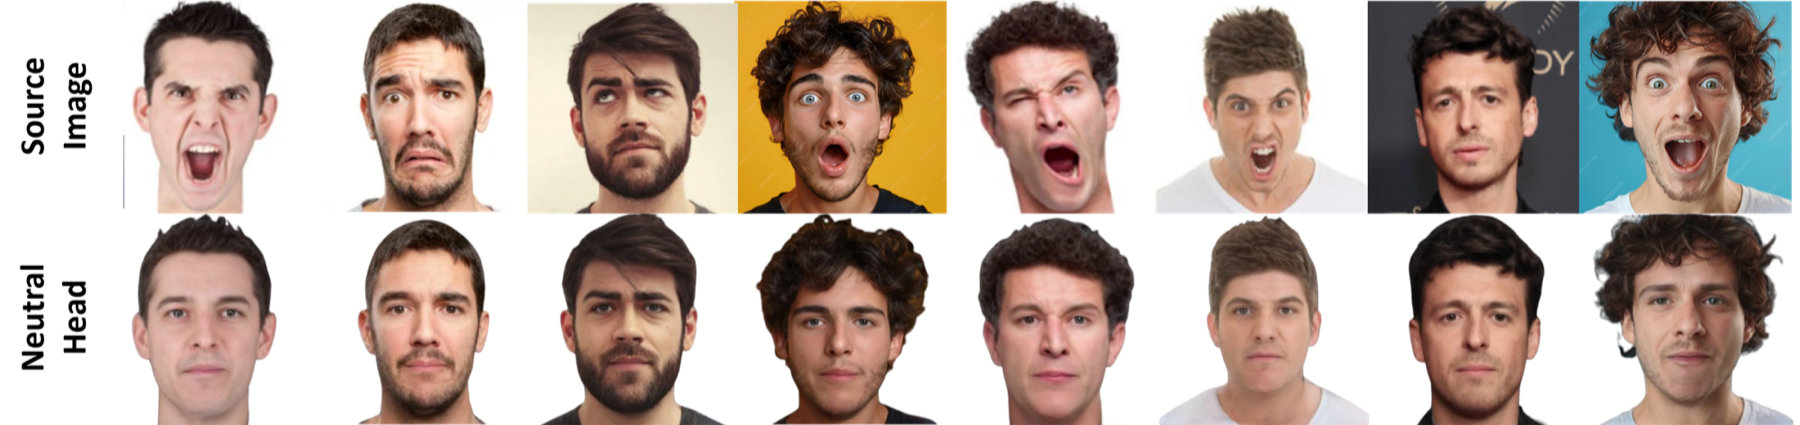
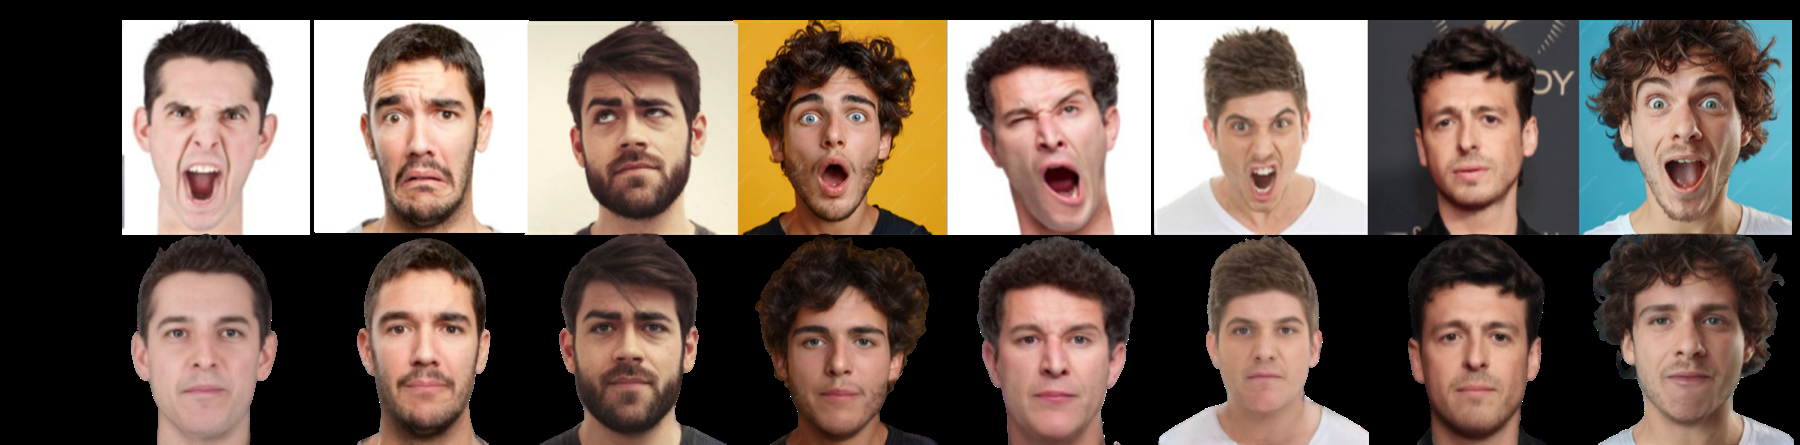
Fix expression removal slider and crops

diff --git a/assets/main.js b/assets/main.js
@@ -131,6 +131,11 @@ const pageConfig = {
   },
 };
 
+const expressionRemovalSliderState = {
+  count: 0,
+  index: 0,
+};
+
 function setText(id, value) {
   const node = document.getElementById(id);
   if (!node) return;
@@ -355,20 +360,92 @@ function renderBaseline() {
   }
 }
 
-function createCarouselItem(itemConfig) {
-  const item = document.createElement("div");
-  item.className = "item item-video3";
-  item.append(createMedia(itemConfig));
-  return item;
+function createExpressionRemovalSlide(itemConfig) {
+  const slide = document.createElement("div");
+  slide.className = "expression-removal-slide";
+  slide.append(createMedia(itemConfig));
+  return slide;
+}
+
+function setExpressionRemovalIndex(index) {
+  const track = document.getElementById("expression-removal-track");
+  const dots = document.querySelectorAll(".expression-removal-dot");
+  if (!track || expressionRemovalSliderState.count === 0) return;
+
+  const nextIndex =
+    ((index % expressionRemovalSliderState.count) + expressionRemovalSliderState.count) %
+    expressionRemovalSliderState.count;
+
+  expressionRemovalSliderState.index = nextIndex;
+  track.style.transform = `translateX(-${nextIndex * 100}%)`;
+
+  dots.forEach((dot, dotIndex) => {
+    dot.classList.toggle("is-active", dotIndex === nextIndex);
+    dot.setAttribute("aria-current", dotIndex === nextIndex ? "true" : "false");
+  });
+}
+
+function bindExpressionRemovalSlider() {
+  const root = document.getElementById("expression-removal-slider");
+  const prev = document.getElementById("expression-removal-prev");
+  const next = document.getElementById("expression-removal-next");
+  const dots = document.getElementById("expression-removal-dots");
+
+  if (!root || !prev || !next || !dots || root.dataset.bound === "true") return;
+
+  prev.addEventListener("click", () => {
+    setExpressionRemovalIndex(expressionRemovalSliderState.index - 1);
+  });
+
+  next.addEventListener("click", () => {
+    setExpressionRemovalIndex(expressionRemovalSliderState.index + 1);
+  });
+
+  dots.addEventListener("click", (event) => {
+    const target = event.target;
+    if (!(target instanceof HTMLButtonElement)) return;
+    const { index } = target.dataset;
+    if (!index) return;
+    setExpressionRemovalIndex(Number(index));
+  });
+
+  root.dataset.bound = "true";
 }
 
 function renderExpressionRemoval() {
   setText("expression-removal-caption", pageConfig.expressionRemoval.caption);
-  const container = document.getElementById("expression-removal-carousel");
-  if (!container) return;
+  const root = document.getElementById("expression-removal-slider");
+  const track = document.getElementById("expression-removal-track");
+  const dots = document.getElementById("expression-removal-dots");
+  const prev = document.getElementById("expression-removal-prev");
+  const next = document.getElementById("expression-removal-next");
+  if (!root || !track || !dots || !prev || !next) return;
+
   const items = pageConfig.expressionRemoval.slides || [];
-  container.replaceChildren(...items.map(createCarouselItem));
-  container.classList.toggle("is-hidden", items.length === 0);
+  track.replaceChildren(...items.map(createExpressionRemovalSlide));
+
+  dots.replaceChildren(
+    ...items.map((_, index) => {
+      const dot = document.createElement("button");
+      dot.className = "expression-removal-dot";
+      dot.type = "button";
+      dot.dataset.index = String(index);
+      dot.setAttribute("aria-label", `Go to expression removal slide ${index + 1}`);
+      dot.setAttribute("aria-current", "false");
+      return dot;
+    }),
+  );
+
+  expressionRemovalSliderState.count = items.length;
+  expressionRemovalSliderState.index = 0;
+
+  root.classList.toggle("is-hidden", items.length === 0);
+  dots.classList.toggle("is-hidden", items.length <= 1);
+  prev.disabled = items.length <= 1;
+  next.disabled = items.length <= 1;
+
+  bindExpressionRemovalSlider();
+  setExpressionRemovalIndex(0);
 }
 
 function createMoreResultsCard(itemConfig) {

diff --git a/assets/styles.css b/assets/styles.css
@@ -152,6 +152,83 @@ body {
   font-size: 0;
 }
 
+.expression-removal-slider {
+  position: relative;
+}
+
+.expression-removal-viewport {
+  overflow: hidden;
+}
+
+.expression-removal-track {
+  display: flex;
+  transition: transform 0.35s ease;
+  will-change: transform;
+}
+
+.expression-removal-slide {
+  flex: 0 0 100%;
+  min-width: 100%;
+}
+
+.expression-removal-slide .media-shell {
+  background: #000000;
+}
+
+.expression-removal-arrow {
+  position: absolute;
+  top: 50%;
+  z-index: 2;
+  width: 44px;
+  height: 44px;
+  border: 1px solid #bcbcbc;
+  border-radius: 999px;
+  background: #ffffff;
+  color: #111111;
+  font-size: 2rem;
+  line-height: 1;
+  display: inline-flex;
+  align-items: center;
+  justify-content: center;
+  cursor: pointer;
+  padding: 0;
+  transform: translateY(-50%);
+}
+
+#expression-removal-prev {
+  left: 12px;
+}
+
+#expression-removal-next {
+  right: 12px;
+}
+
+.expression-removal-arrow:disabled {
+  opacity: 0.35;
+  cursor: default;
+}
+
+.expression-removal-dots {
+  display: flex;
+  justify-content: center;
+  gap: 8px;
+  margin-top: 14px;
+}
+
+.expression-removal-dot {
+  width: 10px;
+  height: 10px;
+  border: none;
+  border-radius: 999px;
+  background: #c8c8c8;
+  padding: 0;
+  cursor: pointer;
+}
+
+.expression-removal-dot.is-active {
+  background: #111111;
+}
+
 .gallery-grid {
   display: grid;
   grid-template-columns: repeat(4, minmax(0, 1fr));
@@ -230,6 +307,19 @@ body {
 
   .more-results-grid {
     grid-template-columns: 1fr;
+  }
+
+  .expression-removal-arrow {
+    width: 40px;
+    height: 40px;
+  }
+
+  #expression-removal-prev {
+    left: 8px;
+  }
+
+  #expression-removal-next {
+    right: 8px;
   }
 }
 

diff --git a/index.html b/index.html
@@ -161,7 +161,28 @@
             <div class="more-results-block">
               <h2 class="title is-4 section-subtitle">Expression Removal Results</h2>
               <h2 id="expression-removal-caption" class="subtitle is-max-desktop section-caption is-hidden"></h2>
-              <div id="expression-removal-carousel" class="carousel results-carousel"></div>
+              <div id="expression-removal-slider" class="expression-removal-slider is-hidden">
+                <button
+                  id="expression-removal-prev"
+                  class="expression-removal-arrow"
+                  type="button"
+                  aria-label="Previous expression removal slide"
+                >
+                  &#8249;
+                </button>
+                <div class="expression-removal-viewport">
+                  <div id="expression-removal-track" class="expression-removal-track"></div>
+                </div>
+                <button
+                  id="expression-removal-next"
+                  class="expression-removal-arrow"
+                  type="button"
+                  aria-label="Next expression removal slide"
+                >
+                  &#8250;
+                </button>
+              </div>
+              <div id="expression-removal-dots" class="expression-removal-dots is-hidden"></div>
             </div>
             <div class="more-results-block">
               <h2 class="title is-4 section-subtitle">Editing of appearance and lighting</h2>
